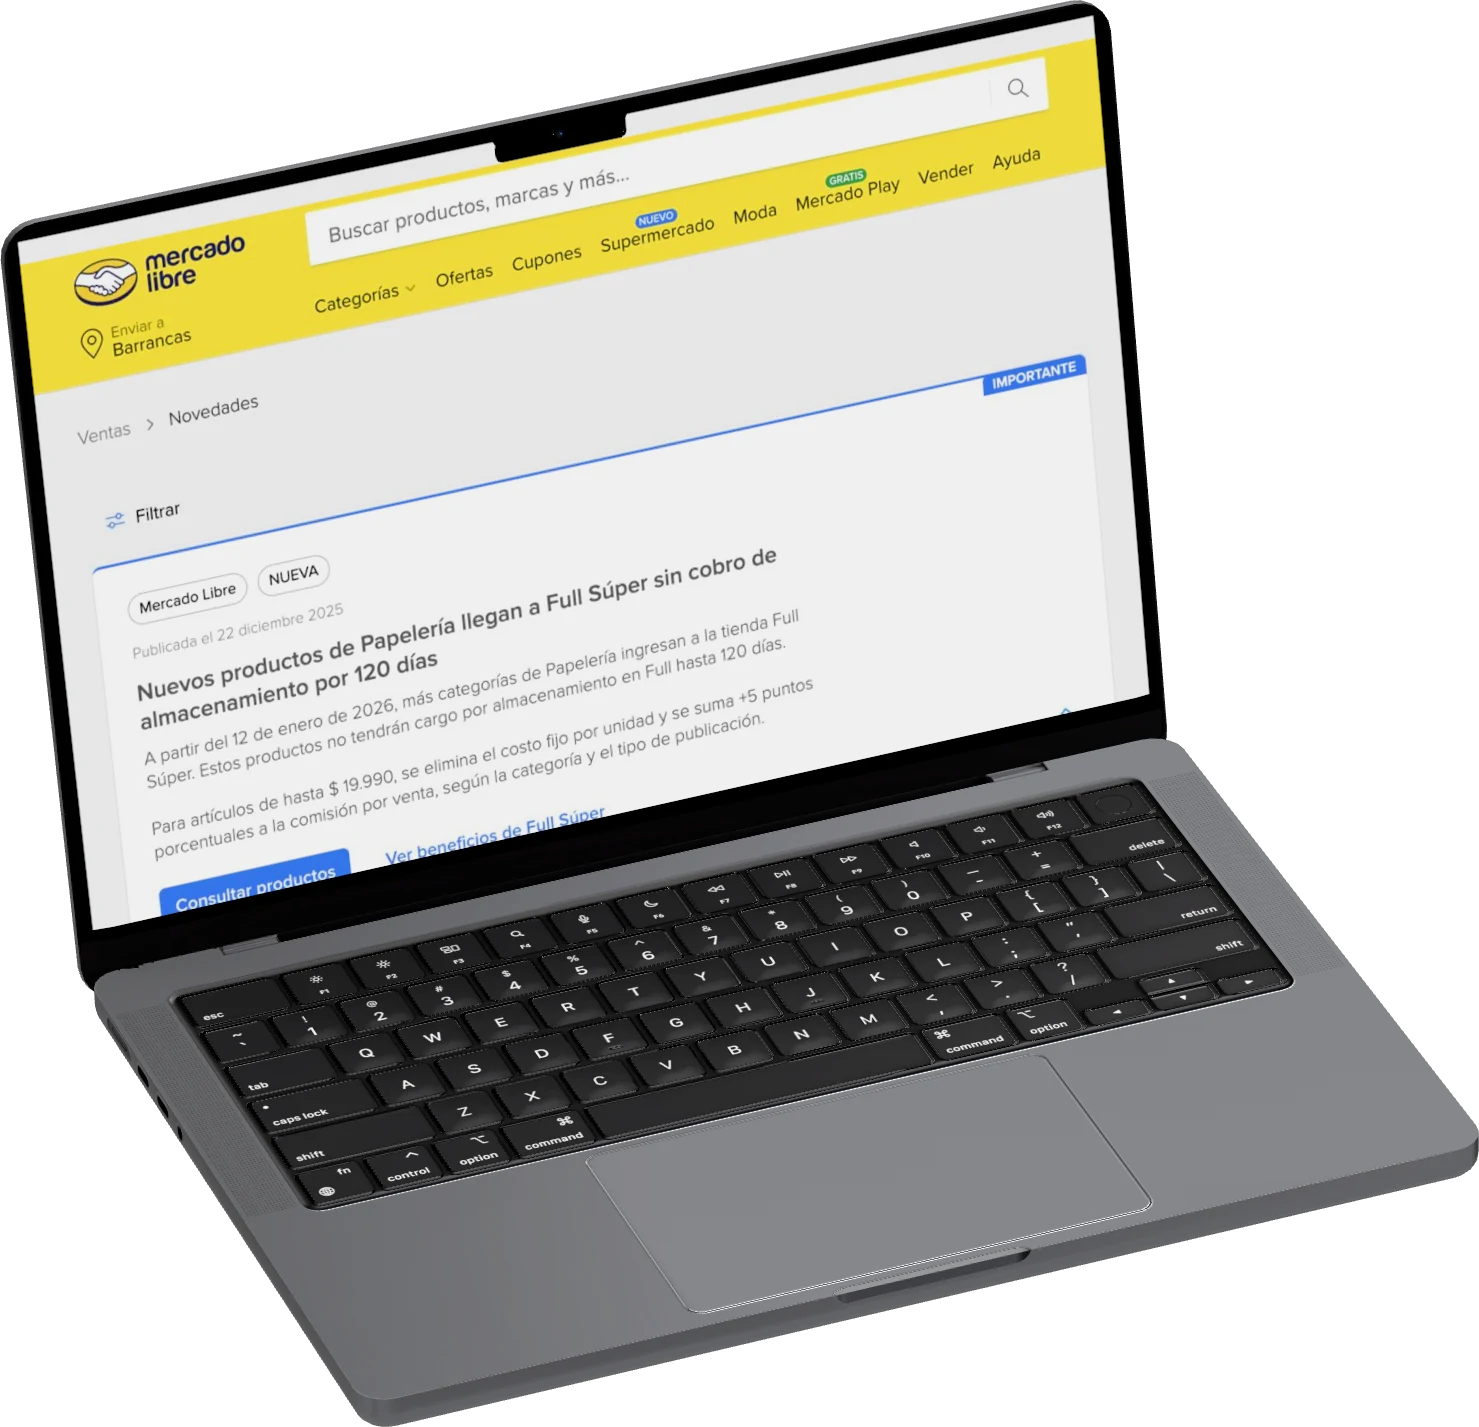
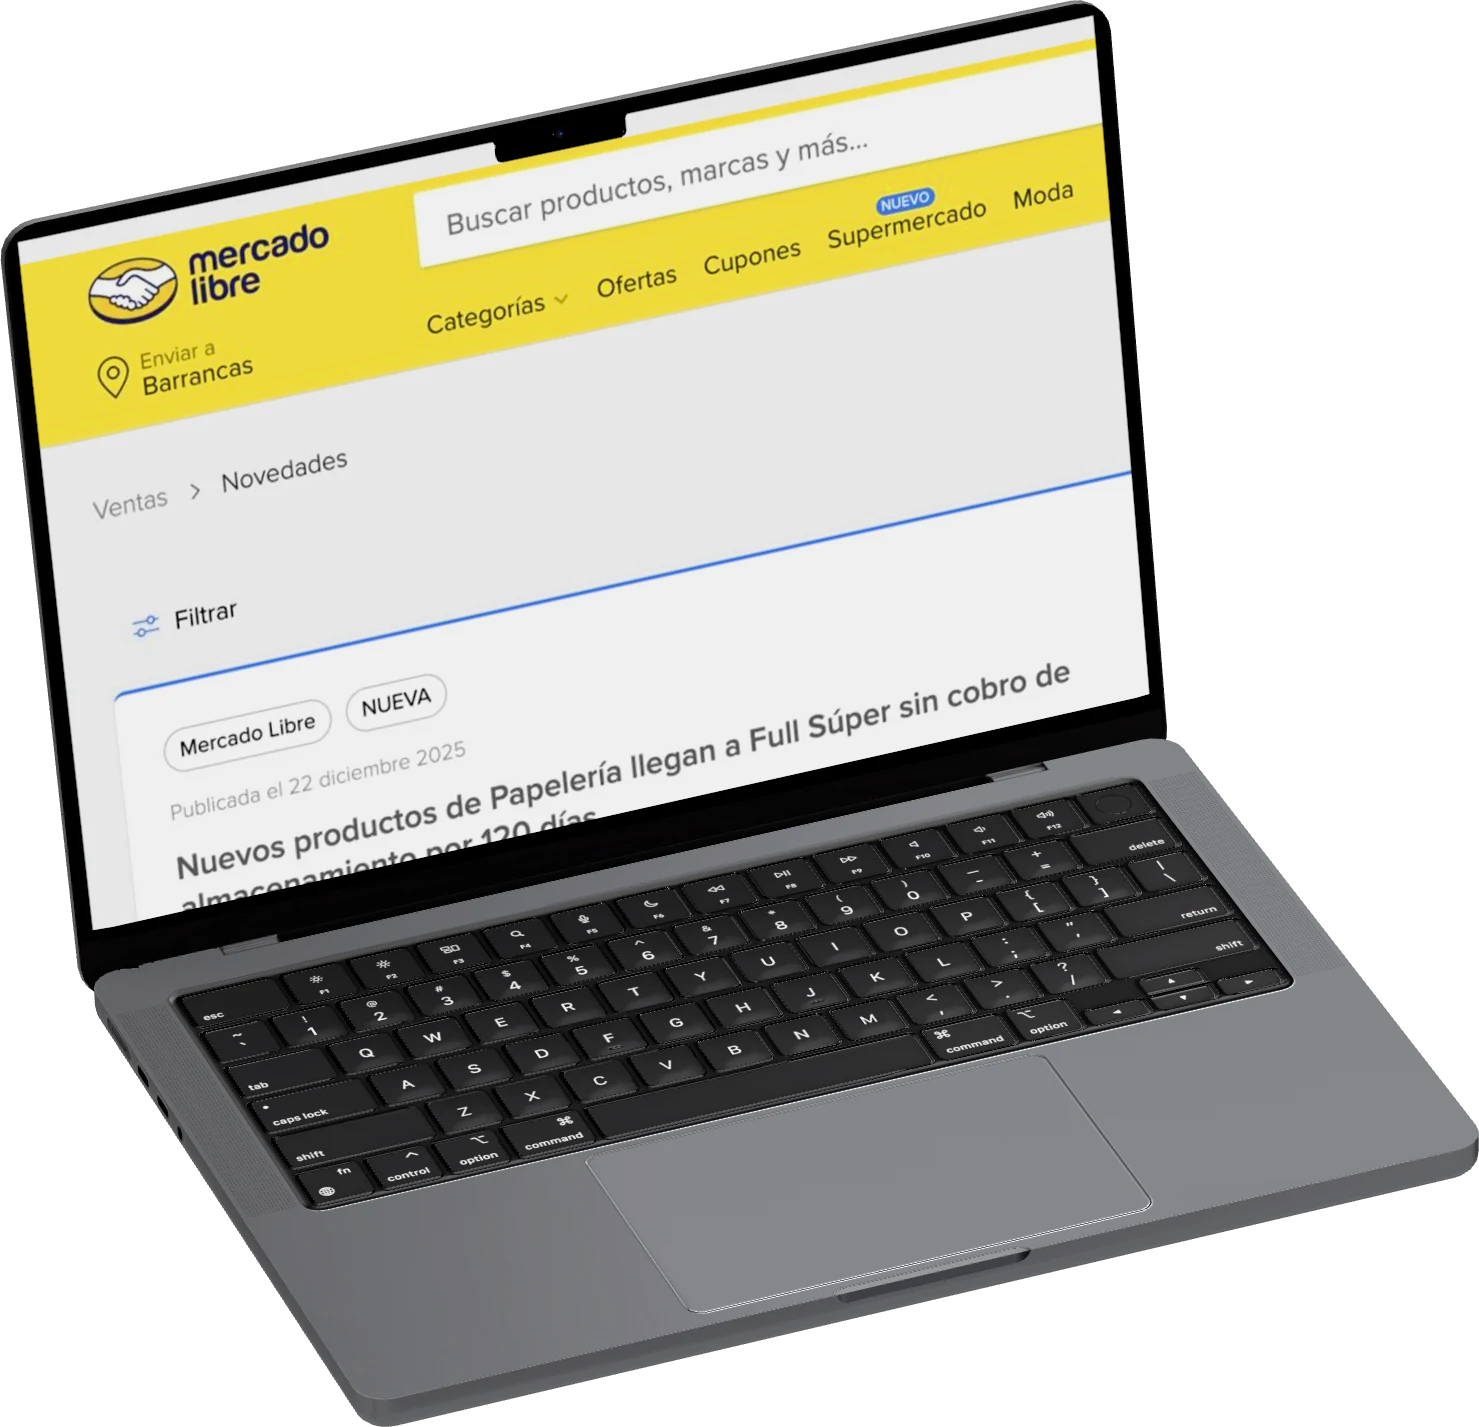
Thumb do Squad de Comus: conteúdo ocupa a tela inteira do notebook (#3)
Claude-Session: https://claude.ai/code/session_011ETaZtr8DPnPDrrejMEoaU

diff --git a/es/index.html b/es/index.html
@@ -104,7 +104,7 @@
 <div class="cs-cap"><p class="cs-bt">Asistente virtual en WhatsApp <span>Banco do Brasil</span></p><p class="cs-bd">Desambiguación de intenciones, fallback en dos pasos y traspaso de contexto para que la conversación no se trabe.</p><p class="cs-tags"><span>Diseño conversacional</span></p></div>
 </a>
 <a class="wk cs-card" href="#squad-de-comus" data-case="squad-de-comus" aria-label="Squad de Comus">
-<div class="cs-vis"><div class="cs-inner"><div class="dv3 dv3-desk"><img src="/mockups/squad-de-comus.webp?v=2" alt="Novedad publicada en español en el sitio de vendedores de Mercado Libre" width="1479" height="1427" loading="lazy" decoding="async"></div></div>
+<div class="cs-vis"><div class="cs-inner"><div class="dv3 dv3-desk"><img src="/mockups/squad-de-comus.webp?v=3" alt="Novedad publicada en español en el sitio de vendedores de Mercado Libre" width="1479" height="1427" loading="lazy" decoding="async"></div></div>
 <div class="cs-bar" aria-hidden="true"><p class="cs-bt">Squad de Comus <span>Mercado Libre</span></p><p class="cs-bd">Un programa de capacitación con IA para diseñadores que producen comunicaciones para vendedores.</p><p class="cs-tags"><span>Product Design</span><span>Content Design</span><span>Design Engineering</span></p></div>
 <span class="cs-badge" aria-hidden="true"><svg viewBox="0 0 13 13" width="12" height="12" fill="none" stroke="currentColor" stroke-width="1.6" stroke-linecap="round" stroke-linejoin="round" aria-hidden="true"><path d="M3.5 9.5l6-6M4.5 3.5h5v5"/></svg></span></div>
 <div class="cs-cap"><p class="cs-bt">Squad de Comus <span>Mercado Libre</span></p><p class="cs-bd">Un programa de capacitación con IA para diseñadores que producen comunicaciones para vendedores.</p><p class="cs-tags"><span>Product Design</span><span>Content Design</span><span>Design Engineering</span></p></div>

diff --git a/pt/index.html b/pt/index.html
@@ -122,7 +122,7 @@
 <div class="cs-cap"><p class="cs-bt">Assistente virtual no WhatsApp <span>Banco do Brasil</span></p><p class="cs-bd">Desambiguação de intenções, fallback em duas etapas e passagem de contexto para a conversa não travar.</p><p class="cs-tags"><span>Design conversacional</span></p></div>
 </a>
 <a class="wk cs-card" href="#squad-de-comus" data-case="squad-de-comus" aria-label="Squad de Comus">
-<div class="cs-vis"><div class="cs-inner"><div class="dv3 dv3-desk"><img src="/mockups/squad-de-comus.webp?v=2" alt="Post de novidades publicado em espanhol no site de vendedores do Mercado Livre" width="1479" height="1427" loading="lazy" decoding="async"></div></div>
+<div class="cs-vis"><div class="cs-inner"><div class="dv3 dv3-desk"><img src="/mockups/squad-de-comus.webp?v=3" alt="Post de novidades publicado em espanhol no site de vendedores do Mercado Livre" width="1479" height="1427" loading="lazy" decoding="async"></div></div>
 <div class="cs-bar" aria-hidden="true"><p class="cs-bt">Squad de Comus <span>Mercado Livre</span></p><p class="cs-bd">Um programa de capacitação com IA para designers que produzem comunicações para vendedores.</p><p class="cs-tags"><span>Product Design</span><span>Content Design</span><span>Design Engineering</span></p></div>
 <span class="cs-badge" aria-hidden="true"><svg viewBox="0 0 13 13" width="12" height="12" fill="none" stroke="currentColor" stroke-width="1.6" stroke-linecap="round" stroke-linejoin="round" aria-hidden="true"><path d="M3.5 9.5l6-6M4.5 3.5h5v5"/></svg></span></div>
 <div class="cs-cap"><p class="cs-bt">Squad de Comus <span>Mercado Livre</span></p><p class="cs-bd">Um programa de capacitação com IA para designers que produzem comunicações para vendedores.</p><p class="cs-tags"><span>Product Design</span><span>Content Design</span><span>Design Engineering</span></p></div>

diff --git a/index.html b/index.html
@@ -104,7 +104,7 @@
 <div class="cs-cap"><p class="cs-bt">Virtual assistant on WhatsApp <span>Banco do Brasil</span></p><p class="cs-bd">Intent disambiguation, a two-step fallback and context handoff, so the conversation doesn’t get stuck.</p><p class="cs-tags"><span>Conversational design</span></p></div>
 </a>
 <a class="wk cs-card" href="#squad-de-comus" data-case="squad-de-comus" aria-label="Squad de Comus">
-<div class="cs-vis"><div class="cs-inner"><div class="dv3 dv3-desk"><img src="/mockups/squad-de-comus.webp?v=2" alt="Published news post in Spanish on the Mercado Libre seller site" width="1479" height="1427" loading="lazy" decoding="async"></div></div>
+<div class="cs-vis"><div class="cs-inner"><div class="dv3 dv3-desk"><img src="/mockups/squad-de-comus.webp?v=3" alt="Published news post in Spanish on the Mercado Libre seller site" width="1479" height="1427" loading="lazy" decoding="async"></div></div>
 <div class="cs-bar" aria-hidden="true"><p class="cs-bt">Squad de Comus <span>Mercado Libre</span></p><p class="cs-bd">An AI-enabled training program for designers who produce communications for sellers.</p><p class="cs-tags"><span>Product Design</span><span>Content Design</span><span>Design Engineering</span></p></div>
 <span class="cs-badge" aria-hidden="true"><svg viewBox="0 0 13 13" width="12" height="12" fill="none" stroke="currentColor" stroke-width="1.6" stroke-linecap="round" stroke-linejoin="round" aria-hidden="true"><path d="M3.5 9.5l6-6M4.5 3.5h5v5"/></svg></span></div>
 <div class="cs-cap"><p class="cs-bt">Squad de Comus <span>Mercado Libre</span></p><p class="cs-bd">An AI-enabled training program for designers who produce communications for sellers.</p><p class="cs-tags"><span>Product Design</span><span>Content Design</span><span>Design Engineering</span></p></div>
